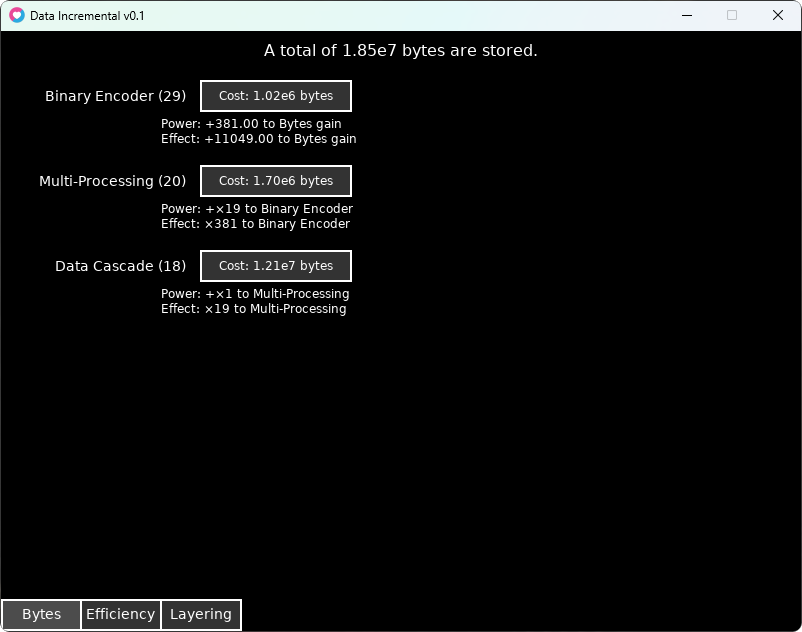
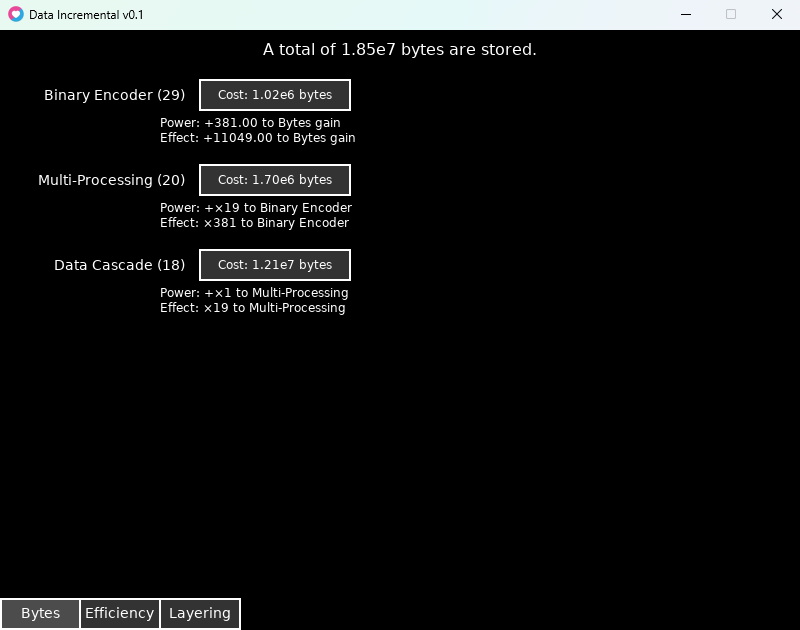
update styles and improve layout

diff --git a/index.html b/index.html
@@ -1,24 +1,26 @@
 <!DOCTYPE html>
 <html>
     <head>
-            <meta charset="UTF-8">
-            <link rel="stylesheet" href="index.css">
+        <meta charset="UTF-8">
+        <link rel="stylesheet" href="index.css">
         <title>aroderg.github.io</title>
     </head>
     <body>
-        <h1 class="aboutMeTitle">This is my intro isn't it?</h1>
-        <p class="aboutMeDesc">Hi, I'm aroderg, a dragon who was given a keyboard and internet early into childhood. I ended up liking coding, FPS, idle games, and Minecraft. <sub>(that's fun.)</sub></p>
-        <p class="aboutMeDesc">I use Lua and (sometimes) Python for my projects. The types of apps I make are games (and sorta libraries I guess?)</p>
-        <h2 class="bestGame">(Subjectively) The best game ever: NoxTD.<br>You can join our Discord <a href="/discord.html">right here</a>.</p>
-
+    <h1 class="aboutMeTitle">This is my intro isn't it?</h1>
+    <p class="aboutMeDesc" style="margin-top:40px">Hi, I'm aroderg, a dragon who was given a keyboard and internet early into childhood. I ended up liking coding, FPS, idle games, and Minecraft. <sub>(that's fun.)</sub></p>
+    <p class="aboutMeDesc">I use Lua and (sometimes) Python for my projects. The types of apps I make are games (and sorta libraries I guess?)</p>
+    <h2 class="bestGame">(Subjectively) The best game ever: NoxTD.<br>You can join our Discord <a href="/discord.html">right here</a>.</p>
+    <div id="rectangle" class="tranCycle" style="margin-top:-10px"></div>
+    <div id="rectangle" class="enbyCycle"></div>
+    <h1 class="aboutMeTitle" style="margin-top:-30px">Projects I main (or used to):</h1>
     <div class="row">
         <div class="column">
-            <img src="imagem/NoxTD demo.png" alt="NoxTD Screenshot" style="max-height:480px; margin-top:90px; border: 4px solid #3d01b5">
+            <img src="imagem/NoxTD demo.png" alt="NoxTD Screenshot" style="max-height:480px; margin-top:40px; border: 4px solid #3d01b5; text-align: center">
         </div>
         <div class="column">
-            <h1 class="descTitle"><a class="descTitle" href="https://github.com/Another-Soul/Nox-Tower-Defense">Nox Tower Defense</a></h1>
+            <h1 class="descTitle"><a class="descTitle" style="margin-top:-10px"href="https://github.com/Another-Soul/Nox-Tower-Defense">Nox Tower Defense</a></h1>
             <p class="descParagraph">A semi-idle twist on tower defense where your entire strategy hinges on just one tower. You invest in upgrades, unlock abilities, and evolve your lone defense strong enough to survive waves of enemies — all while passive income and idle mechanics ease the grind. Built in Lua using the LOVE2d framework.</p>
-            <p class="descParagraph"><br>Updated Oct 2025</a></p>
+            <p class="descParagraph"><br><b>Updated Oct 2025</b></a></p>
         </div>
     </div>
     <div class="row">
@@ -28,7 +30,7 @@
         <div class="column">
             <h1 class="descTitle"><a class="descTitle" href="https://github.com/Another-Soul/Project-Cooldown">Project: Cooldown</a></h1>
             <p class="descParagraph">Project Cooldown is an idle / incremental game in Lua (using LOVE2D) that takes inspiration from Check Back (by Demonin) and its mods. You tap, wait, unlock modifiers, and build up power over time — even when you're not actively playing — so your progress hums along in the background.</p>
-            <p class="descParagraph"><br>Updated Nov 2025</p>
+            <p class="descParagraph"><br><b>Updated Nov 2025</b></p>
         </div>
     </div>
     <div class="row">
@@ -38,17 +40,17 @@
         <div class="column">
             <h1 class="descTitle"><a class="descTitle" href="https://github.com/Another-Soul/NoxOS">NoxOS</a></h1>
             <p class="descParagraph">NoxOS is a meta / simulation game about evolving an operating system through versions. There are 32 possible OS versions (5 developed, 27 not yet) and currently 15 game releases (8 considered stable). The latest stable version is v0.3.2 (released June 27, 2024). It's heavily inspired by Progressbar95.</p>
-            <p class="descParagraph"><br>Updated Sep 2024</p>
+            <p class="descParagraph"><br><b>Updated Sep 2024</b></p>
         </div>
     </div>
     <div class="row">
         <div class="column">
-            <img src="imagem/dataIncremental demo.png" alt="Data Incremental Screenshot" style="max-height:480px; margin-top:90px; border: 4px solid #000">
+            <img src="imagem/dataIncremental demo.png" alt="Data Incremental Screenshot" style="max-height:480px; margin-top:90px; border: 4px solid #444">
         </div>
         <div class="column">
             <h1 class="descTitle"><a class="descTitle" href="https://github.com/Another-Soul/Data-Incremental">Data Incremental</a></h1>
             <p class="descParagraph">Data Incremental is a Lua + LOVE-engine idle/strategy game where your goal is to accumulate data and unlock ever more advanced technologies as you climb through orders of magnitude. You start small, storing bits and bytes, and gradually master systems like multiprocessing, efficiency upgrades, data cascades, binary encoding, etc., eventually pushing your empire of information toward absurd scale.</p>
-            <p class="descParagraph"><br>Updated Oct 2023</p>
+            <p class="descParagraph"><br><b>Updated Oct 2023</b></p>
         </div>
     </div>
 
@@ -56,8 +58,9 @@
         function get_random(list){
             return list[Math.floor((Math.random()*list.length))];
         }
-        var possibleTitles = Array("My Github page", "aroderg's stuff.", "Treme, treme, treme com potência", "insert flavor", "aroderg.github.io", "guys, one tower is enough", "esne paratusss???", ":3 mrow~")
+        var possibleTitles = Array("My Github page", "aroderg's stuff.", "Treme, treme, treme com potência", "insert flavor", "aroderg.github.io", "guys, one tower is enough", "esne paratusss???", ":3 mrow~", "do NOT insert flavor", "")
         document.title = get_random(possibleTitles);
+        src='https://kit.fontawesome.com/a076d05399.js'
     </script>
     </body>
 </html>

diff --git a/index.css b/index.css
@@ -1,5 +1,5 @@
 * {
-  box-sizing: border-box;
+    box-sizing: border-box;
 }
 
 body {
@@ -7,59 +7,116 @@ body {
     background: url(imagem/background_nova.png) no-repeat center center fixed;
     backdrop-filter: blur(0px);
     background-repeat: no-repeat;
-    }
+}
 
 p.aboutMeDesc {
     color: #ffffff;
-    font-family: 'Courier New', monospace;
-    font-size:22px
-    }
+    font-family: 'Afacad Flux', monospace;
+    margin-top: -28px;
+    font-size:28px
+}
 
 h2.bestGame {
     color: #ffffff;
     font-family: 'Afacad Flux', monospace;
     text-align: center;
     margin-bottom: 90px;
-    }
+    margin-top: 50px;
+}
 
 h1.aboutMeTitle {
-    background-color: #ffffff;
+    color: #fff;
+    font-size: 48px;
+    margin-top: -8px;
     text-align: center;
-    margin-left: 740px;
-    margin-right: 740px;
-    }
+}
 
 div.mainPageLink {
     color: #ffffff;
     text-align: center;
-    }
+}
 
 .column {
-  float: left;
-  width: 50%;
-  padding: 5px;
+    float: left;
+    width: 50%;
+    padding: 5px;
+    text-align:center
 }
 
 .row {
-  display: flex;
-  flex-wrap: wrap;
+    display: flex;
+    flex-wrap: wrap;
 }
 
 .descTitle {
-  float: right;
-  margin-top: 0px;
-  font-family: 'Afacad Flux', monospace;
-  margin-top: 90px
+    float: right;
+    font-family: 'Afacad Flux', monospace;
+    margin-top: 39px;
+    font-size: 48px
 }
 
 a.descTitle {
-  color: #ffffff
+    color: #ffffff
 }
 
 .descParagraph {
-  float: left;
-  margin-top: -12px;
-  margin-left: 16px;
-  font-family: 'Afacad Flux', monospace;
-  text-align:left;
+    float: left;
+    margin-top: -12px;
+    margin-left: 16px;
+    font-family: 'Afacad Flux', monospace;
+    text-align:left;
+    color: #fff;
+    font-size: 24px;
+}
+
+@keyframes cycle-trangradient {
+    0% {
+        background-position: 0%, 50%
+    }
+    100% {
+        background-position: 133.333%, 50%
+    }
+}
+@keyframes cycle-enbygradient {
+    0% {
+        background-position: 0%, 50%
+    }
+    100% {
+        background-position: 100%, 50%
+    }
+}
+
+div.tranCycle {
+    background-size: 160%, 100%;
+    margin-top: 0px; height: 3px; margin-left: 720px; margin-right: 720px;
+    background-image: linear-gradient(
+        to right,
+        #5bcefa 0%, #5bcefa 12.5%,
+        #ffc0cb 12.5%, #ffc0cb 25%,
+        #ffffff 25%, #ffffff 37.5%,
+        #ffc0cb 37.5%, #ffc0cb 50%,
+        #5bcefa 50%, #5bcefa 62.5%,
+
+        #ffc0cb 62.5%, #ffc0cb 75%,
+        #ffffff 75%, #ffffff 87.5%,
+        #ffc0cb 87.5%, #ffc0cb 100%);
+    animation: cycle-trangradient 4s infinite linear
+}
+
+div.enbyCycle {
+    background-size: 200%, 100%;
+    margin-top: 2px; height: 3px; margin-left: 720px; margin-right: 720px;
+    background-image: linear-gradient(
+        to right,
+        #fff433 0%, #fff433 12.5%,
+        #ffffff 12.5%, #ffffff 25%,
+        #9b59d0 25%, #9b59d0 37.5%,
+        #000000 37.5%, #000000 50%,
+
+        #fff433 50%, #fff433 62.5%,
+        #ffffff 62.5%, #ffffff 75%,
+        #9b59d0 75%, #9b59d0 87.5%,
+        #000000 87.5%, #000000 100%
+        );
+    animation: cycle-enbygradient 4s infinite reverse linear
 }

diff --git a/discord.html b/discord.html
@@ -1,3 +1,3 @@
 <head>
-  <meta http-equiv='refresh' content='0; URL=https://discord.gg/V576eHJQH3'>
+    <meta http-equiv='refresh' content='0; URL=https://discord.gg/V576eHJQH3'>
 </head>
